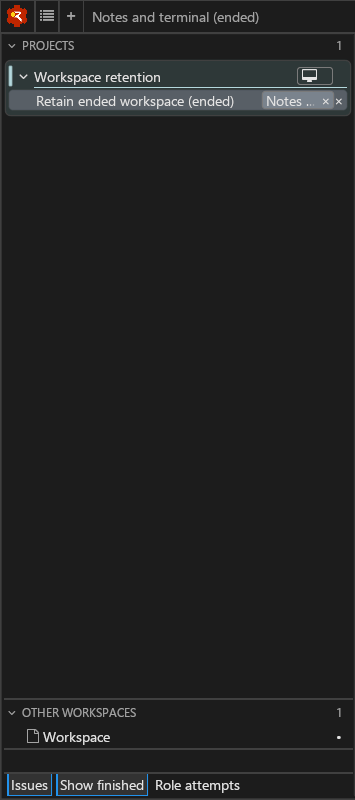
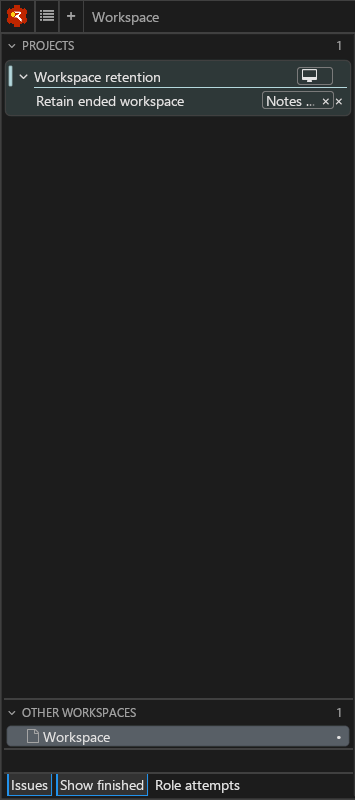
Share and test ended markers while retaining user panel state

Changed region(s): [[0.031, 0.0938, 0.9915, 0.1562], [0.0, 0.9062, 0.9915, 0.9375], [0.2479, 0.0, 0.7437, 0.0312]]

diff --git a/src/uishell/uishell_sidebar.c b/src/uishell/uishell_sidebar.c
@@ -566,6 +566,13 @@ uishell_sidebar_entry_signal(UIShell_SidebarState *state, RD_WindowState *ws,
   String8 kind = uishell_sidebar_string(node.entity_kind);
   B32 subject = str8_match(kind, str8_lit("change_request"), 0) || str8_match(kind, str8_lit("issue"), 0);
   size_t copy_url = subject ? andamento_snapshot_copy_url_action(state->snapshot, node_index) : ANDAMENTO_NONE;
+  B32 ended = 0;
+  if(node.field_count > 2)
+  {
+    AndamentoField status_field = {0};
+    andamento_snapshot_field(state->snapshot, node.first_field+2, &status_field);
+    ended = str8_match(uishell_sidebar_string(status_field.text), str8_lit("ended"), 0);
+  }
   B32 can_activate = node.activate != ANDAMENTO_NONE && (node.openable || node.state == ANDAMENTO_LIVE || copy_url != ANDAMENTO_NONE);
   Temp scratch = scratch_begin(0, 0);
   sig.box->flags |= UI_BoxFlag_DisableTruncatedHover;
@@ -621,7 +628,7 @@ uishell_sidebar_entry_signal(UIShell_SidebarState *state, RD_WindowState *ws,
         if(!duplicate) { ui_label_multiline(card_width, value); }
       }
       UI_TagF("weak")
-      { ui_label(subject ? (copy_url != ANDAMENTO_NONE ? str8_lit("Click to open · Right-click to copy URL") : str8_lit("Right-click to copy reference · URL unavailable")) : node.selected ? str8_lit("Current workspace") : can_activate ? (node.state == ANDAMENTO_LIVE ? str8_lit("Focus workspace") : str8_lit("Open workspace")) : str8_lit("No opening recipe available")); }
+      { ui_label(subject ? (copy_url != ANDAMENTO_NONE ? str8_lit("Click to open · Right-click to copy URL") : str8_lit("Right-click to copy reference · URL unavailable")) : ended ? str8_lit("Ended workspace") : node.selected ? str8_lit("Current workspace") : can_activate ? (node.state == ANDAMENTO_LIVE ? str8_lit("Focus workspace") : str8_lit("Open workspace")) : str8_lit("No opening recipe available")); }
       if(node.state == ANDAMENTO_LIVE)
       {
         rd_workspace_preview_demand_push(ws, node.workspace_id, card_width);
@@ -670,6 +677,18 @@ uishell_sidebar_action_border(void)
   return color;
 }
 
+// Inline actions and rows share terminal-state precedence. Project rows keep
+// their own spacer at the call site rather than displaying a workspace marker.
+internal String8
+uishell_sidebar_status_mark(AndamentoNode node, String8 status)
+{
+  if(str8_match(status, str8_lit("ended"), 0)) { return str8_lit("×"); }
+  if(node.state == ANDAMENTO_OPENING) { return str8_lit("…"); }
+  if(str8_match(status, str8_lit("failed"), 0)) { return str8_lit("!"); }
+  if(str8_match(status, str8_lit("waiting"), 0)) { return str8_lit("◷"); }
+  return node.state == ANDAMENTO_LIVE ? str8_lit("•") : str8_zero();
+}
+
 internal size_t
 uishell_sidebar_inline_action(UIShell_SidebarState *state, RD_WindowState *ws,
                               AndamentoNode node, U64 node_index, String8 context, B32 overview)
@@ -693,11 +712,7 @@ uishell_sidebar_inline_action(UIShell_SidebarState *state, RD_WindowState *ws,
       andamento_snapshot_field(state->snapshot, node.first_field+2, &field);
       status = uishell_sidebar_string(field.text);
     }
-    String8 mark = str8_match(status, str8_lit("ended"), 0) ? str8_lit("×") :
-      node.state == ANDAMENTO_OPENING ? str8_lit("…") :
-      str8_match(status, str8_lit("failed"), 0) ? str8_lit("!") :
-      str8_match(status, str8_lit("waiting"), 0) ? str8_lit("◷") :
-      node.state == ANDAMENTO_LIVE ? str8_lit("•") : str8_zero();
+    String8 mark = uishell_sidebar_status_mark(node, status);
     // Fixed status slot: opening/focus transitions never move the label.
     UI_ChildLayoutAxis(Axis2_X)
     {
@@ -1269,11 +1284,7 @@ uishell_sidebar_ui(Rng2F32 rect, UIShell_ControlledSplit *split)
                   UI_TextColor(color) { ui_label(badge); }
                 }
                 else if(project) { ui_spacer(ui_em(1.2f, 1)); }
-                else if(str8_match(status, str8_lit("ended"), 0)) { ui_label(str8_lit("×")); }
-                else if(node.state == ANDAMENTO_OPENING) { ui_label(str8_lit("…")); }
-                else if(str8_match(status, str8_lit("failed"), 0)) { ui_label(str8_lit("!")); }
-                else if(str8_match(status, str8_lit("waiting"), 0)) { ui_label(str8_lit("◷")); }
-                else { ui_label(node.state == ANDAMENTO_LIVE ? str8_lit("•") : str8_lit("")); }
+                else { ui_label(uishell_sidebar_status_mark(node, status)); }
               }
             }
             ui_spacer(ui_px(2.f, 1));
@@ -1633,6 +1644,21 @@ uishell_sidebar_diagnostics(CFG_Node *window)
   }
   char *error = 0;
   B32 ok = state->core != 0 && activate != ANDAMENTO_NONE;
+  // Terminal ended markers win over pending opening or live state. Exercise
+  // the exact shared renderer helper, including ordinary non-ended markers.
+  struct { U32 state; char *status; char *mark; } marks[] = {
+    {ANDAMENTO_OPENING, "ended", "×"}, {ANDAMENTO_LIVE, "ended", "×"},
+    {ANDAMENTO_LATENT, "ended", "×"}, {ANDAMENTO_OPENING, "failed", "…"},
+    {ANDAMENTO_LIVE, "failed", "!"}, {ANDAMENTO_LATENT, "waiting", "◷"},
+    {ANDAMENTO_LIVE, "", "•"}, {ANDAMENTO_LATENT, "", ""},
+  };
+  B32 markers_ok = 1;
+  for(U64 i = 0; i < ArrayCount(marks); i++)
+  {
+    AndamentoNode marker_node = {0}; marker_node.state = marks[i].state;
+    markers_ok = markers_ok && str8_match(uishell_sidebar_status_mark(marker_node, str8_cstring(marks[i].status)),
+                          str8_cstring(marks[i].mark), 0);
+  }
   if(ok) { ok = andamento_dispatch(state->core, state->snapshot, activate, &error); }
   ok = uishell_sidebar_result(state, ok, error);
   if(ok)
@@ -1761,8 +1787,48 @@ uishell_sidebar_diagnostics(CFG_Node *window)
     tree = cfg_panel_tree_from_panels_cfg(scratch.arena, panels, Axis2_X);
     ok = ok && restored_live && tree.root->last->selected_tab->id == tools_id &&
          tree.root->first->tabs.count == 1 && tree.root->last->tabs.count == 2;
+    // Authoritative end and focus retain the host's user-selected overflow tab
+    // and panel identities, including content that the producer did not create.
+    String8 retained_config = push_str8f(scratch.arena, "%s\ndisplay-variable \"show-finished\" type=\"bool\" default=true label=\"Show finished\" icon=\"F\"\n",
+                                        uishell_sidebar_fixture_config);
+    error = 0;
+    ok = ok && andamento_configure(state->core, uishell_sidebar_text(retained_config), &error);
+    uishell_sidebar_result(state, ok, error);
+    AndamentoFact end_fact = {0};
+    end_fact.key = uishell_sidebar_text(str8_lit("flotilla.convoy.phase"));
+    end_fact.kind = ANDAMENTO_FACT_TEXT;
+    end_fact.text = uishell_sidebar_text(str8_lit("landed"));
+    error = 0;
+    ok = ok && andamento_apply_entity(state->core, 0, uishell_sidebar_text(str8_lit("vessel")),
+      uishell_sidebar_text(str8_lit("multi")), uishell_sidebar_text(str8_lit("fixture")), &end_fact, 1, &error);
+    uishell_sidebar_result(state, ok, error);
+    uishell_sidebar_refresh(state);
+    B32 retained_live = 0;
+    for(U64 i = 0; i < andamento_snapshot_node_count(state->snapshot); i++)
+    {
+      AndamentoNode node = {0}; andamento_snapshot_node(state->snapshot, i, &node);
+      if(node.workspace_id == workspace->id && node.state == ANDAMENTO_LIVE &&
+         str8_match(uishell_sidebar_string(node.entity_id), str8_lit("multi"), 0))
+      {
+        retained_live = str8_match(uishell_sidebar_string(node.label), str8_lit("Example workspace"), 0);
+        activate = node.activate;
+      }
+    }
+    ok = ok && retained_live;
+    error = 0;
+    ok = ok && andamento_dispatch(state->core, state->snapshot, activate, &error);
+    uishell_sidebar_result(state, ok, error);
+    uishell_sidebar_effects(state, &split);
+    split = uishell_root_controlled_split_from_window(scratch.arena, window);
+    tree = cfg_panel_tree_from_panels_cfg(scratch.arena, panels, Axis2_X);
+    ok = ok && split.inventory.count == before+1 &&
+         ws->root_controlled_split_selected_workspace_id == workspace->id &&
+         tree.root->last->selected_tab->id == tools_id &&
+         tree.root->first->tabs.count == 1 && tree.root->last->tabs.count == 2;
+
   }
-  fprintf(stderr, "Sidebar host diagnostics: %s (split layout, overflow selection, project motion, reveal, focus, close, failure, retry, restore)\n", ok ? "passed" : "FAILED");
+  ok = markers_ok && ok;
+  fprintf(stderr, "Sidebar host diagnostics: %s (split layout, overflow selection, project motion, reveal, focus, close, failure, retry, restore, ended retention, status glyphs)\n", ok ? "passed" : "FAILED");
   scratch_end(scratch);
   return ok;
 }

diff --git a/tools/test-native-sidebar.py b/tools/test-native-sidebar.py
@@ -96,6 +96,15 @@ class NativeSidebarTests(unittest.TestCase):
             self.assertEqual(lib.andamento_apply_patch_json(self.core, 0, Text.of(json.dumps(item)), None), 1)
         self.snapshots = []
 
+    def open_workspace(self, identity, workspace_id):
+        snapshot, nodes = self.snapshot()
+        node = next(n for n in nodes if n.entity_id.string() == identity)
+        kind, request, _, _ = self.dispatch(snapshot, node.activate)
+        self.assertEqual(kind, 1)
+        self.assertTrue(lib.andamento_complete(self.core, request, 1, workspace_id, Text.of(''), None))
+        workspace = Workspace(workspace_id, 0, Text.of(identity), 1)
+        self.assertTrue(lib.andamento_observe(self.core, C.byref(workspace), 1, None, 0, None))
+
     def publish_fixture(self):
         for line in (ROOT / 'data/sidebar/fixture.jsonl').read_text().splitlines():
             item = json.loads(line)
@@ -432,12 +441,7 @@ class NativeSidebarTests(unittest.TestCase):
         held = next(n for n in nodes if n.entity_id.string() == 'p/governor')
         self.assertFalse(held.openable)  # visible and inspectable, never a stale attachment
         self.publish_role('governor', attempt='g-v')
-        snapshot, nodes = self.snapshot()
-        role = next(n for n in nodes if n.entity_id.string() == 'p/governor')
-        _, request, _, _ = self.dispatch(snapshot, role.activate)
-        self.assertEqual(lib.andamento_complete(self.core, request, 1, 44, Text.of(''), None), 1)
-        workspace = Workspace(44, 0, Text.of('governor'), 1)
-        self.assertEqual(lib.andamento_observe(self.core, C.byref(workspace), 1, None, 0, None), 1)
+        self.open_workspace('p/governor', 44)
         _, nodes = self.snapshot()
         role = next(n for n in nodes if n.entity_id.string() == 'p/governor')
         self.assertEqual((role.workspace_id, role.selected), (44, 1))
@@ -453,10 +457,10 @@ class NativeSidebarTests(unittest.TestCase):
         # A producer removal hides the retained role until Show finished.
         self.assertFalse(any(n.workspace_id == 44 for n in nodes))
         self.toggle_variable('Show finished')
-        _, nodes = self.snapshot()
+        snapshot, nodes = self.snapshot()
         role = next(n for n in nodes if n.entity_id.string() == 'p/governor')
         self.assertEqual(role.workspace_id, 44)
-        self.assertIn('(ended)', role.label.string())
+        self.assertEqual(self.values(snapshot, role)[2], 'ended')
 
     def test_project_hover_lists_repository_membership_without_placing_it(self):
         # Facts shaped as flotilla pm connect publishes membership (flotilla#1897).
@@ -485,13 +489,7 @@ class NativeSidebarTests(unittest.TestCase):
     # Lifecycle scenario through the real daily-driver KDL and C ABI: an ended
     # workspace stays on its subject, follows Show finished, and remains focusable.
     def test_ended_workspace_retains_subject_after_producer_removal(self):
-        snapshot, nodes = self.snapshot()
-        vessel = next(n for n in nodes if n.entity_id.string() == 'v')
-        kind, request, _, _ = self.dispatch(snapshot, vessel.activate)
-        self.assertEqual(kind, 1)
-        self.assertTrue(lib.andamento_complete(self.core, request, 1, 42, Text.of(''), None))
-        workspace = Workspace(42, 0, Text.of('v'), 1)
-        self.assertTrue(lib.andamento_observe(self.core, C.byref(workspace), 1, None, 0, None))
+        self.open_workspace('v', 42)
         # Removal has the real producer shape: identity unsets and a source heartbeat.
         removal = patch('vessel', 'v', source='flotilla')
         removal['set'] = {'source': removal['set']['source']}
@@ -504,8 +502,7 @@ class NativeSidebarTests(unittest.TestCase):
         snapshot, nodes = self.snapshot()
         retained = next(n for n in nodes if n.workspace_id == 42 and n.entity_id.string() == 'v')
         self.assertEqual((retained.entity_kind.string(), retained.entity_id.string(), retained.state), ('vessel', 'v', 3))
-        self.assertIn('(ended)', retained.label.string())
-        self.assertIn('(ended)', self.values(snapshot, retained)[0])
+        self.assertEqual(self.values(snapshot, retained)[2], 'ended')
         parent = nodes[retained.parent]
         self.assertEqual((parent.entity_kind.string(), parent.entity_id.string()), ('convoy', 'c'))
         self.assertFalse(any(n.entity_kind.string() == 'andamento.workspace' for n in nodes))
@@ -559,12 +556,7 @@ class NativeSidebarTests(unittest.TestCase):
     # Terminal subject phases retain the workspace in place. A later stale
     # active publication cannot undo an authoritative end for the same identity.
     def test_finished_open_workspace_follows_show_finished_in_place(self):
-        snapshot, nodes = self.snapshot()
-        vessel = next(n for n in nodes if n.entity_id.string() == 'v')
-        _, request, _, _ = self.dispatch(snapshot, vessel.activate)
-        self.assertTrue(lib.andamento_complete(self.core, request, 1, 42, Text.of(''), None))
-        workspace = Workspace(42, 0, Text.of('worker'), 1)
-        self.assertTrue(lib.andamento_observe(self.core, C.byref(workspace), 1, None, 0, None))
+        self.open_workspace('v', 42)
         for phase in ('landed', 'active'):
             for kind, identity in [('convoy', 'c'), ('vessel', 'v')]:
                 update = patch(kind, identity, **{'flotilla.convoy.phase': phase})
@@ -574,7 +566,7 @@ class NativeSidebarTests(unittest.TestCase):
         self.toggle_variable('Show finished')
         snapshot, nodes = self.snapshot()
         live = next(n for n in nodes if n.entity_id.string() == 'v' and n.workspace_id == 42)
-        self.assertIn('(ended)', live.label.string())
+        self.assertEqual(self.values(snapshot, live)[2], 'ended')
         kind, request, identity, _ = self.dispatch(snapshot, live.activate)
         self.assertEqual((kind, identity), (0, 42))
         self.assertTrue(lib.andamento_complete(self.core, request, 0, 0, Text.of(''), None))

diff --git a/docs/retained-workspace-acceptance.md b/docs/retained-workspace-acceptance.md
@@ -1,7 +1,7 @@
 # Retained subject workspaces
 
 A workspace opened from a sidebar subject stays linked to that subject when
-it ends. Show finished exposes it with an ended label and a × marker. Focusing
+it ends. Show finished exposes it with a × marker and Ended workspace hover text. Focusing
 it uses its original workspace ID; its panels and tabs are not recreated.
 Other workspaces still contains ordinary workspaces without subjects.
 
@@ -29,15 +29,17 @@ its convoy. The unrelated Workspace row remains in Other workspaces.
 - Native Linux build with clang, Cleat's `none` feature set, and the existing
   workflow-pinned Jackstay succeeds.
 - All 26 scenarios in `tools/test-native-sidebar.py` pass against Andamento
-  `76fda30` (companion PR andamento#121). They use the real daily-driver
+  `3808cbe` (companion PR andamento#121). They use the real daily-driver
   templates and C ABI, including source-heartbeat removal, alias identity,
   Show finished, focus and user close.
-- Andamento's 114 unit tests and 35 sidebar scenarios pass. Disconnect tests
+- Andamento's 114 unit tests and 40 sidebar scenarios pass. Disconnect tests
   cross the lease boundary, stay on the original project path, reconnect,
   and remain unended. Tests also cover ancestor removal, repeated authoritative
   ends, no timer, standing roles, unrelated sources and subjectless workspaces.
-- Targeted mutations removing retained catalog augmentation and terminal-phase
-  detection each fail the corresponding scenario. The new lifecycle test also
+- Targeted core mutations removing retained catalog augmentation, terminal-phase
+  detection, and explicit fact withdrawal each fail the corresponding scenario.
+  Native mutations dropping the ended glyph or letting opening override ended
+  each fail the shared-renderer diagnostics. The new lifecycle test also
   fails against the unpatched core.
 
 Reproduce the headless ABI acceptance after building:
